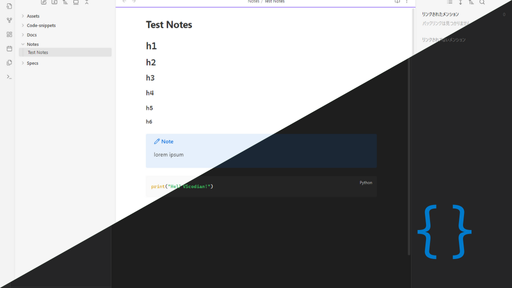
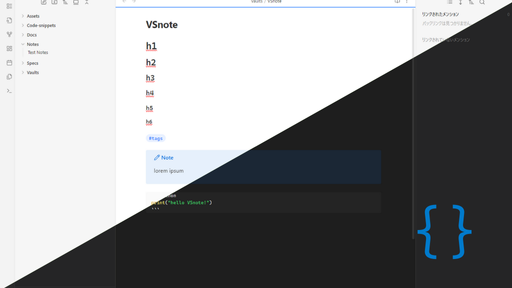
add preview of lightmode and darkmode

diff --git a/readme.md b/readme.md
@@ -18,6 +18,15 @@ combining the productivity of your favorite editor with the note-taking power of
 - **VS Code-style status bar** spanning the entire bottom edge.
 - Folder/file tree and icon tweaks to resemble the VS Code explorer.
 - Accent color customization via `--interactive-accent`.
+### Screenshots
+
+#### Dark Mode
+
+![VSNote Dark Mode Screenshot](Assets/darkmode.png)
+
+#### Light Mode
+
+![VSNote Light Mode Screenshot](Assets/lightmode.png)
 
 ### Notes
 
